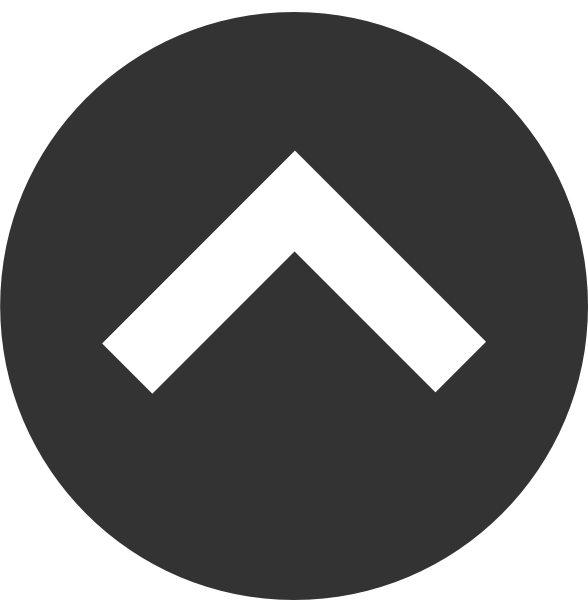
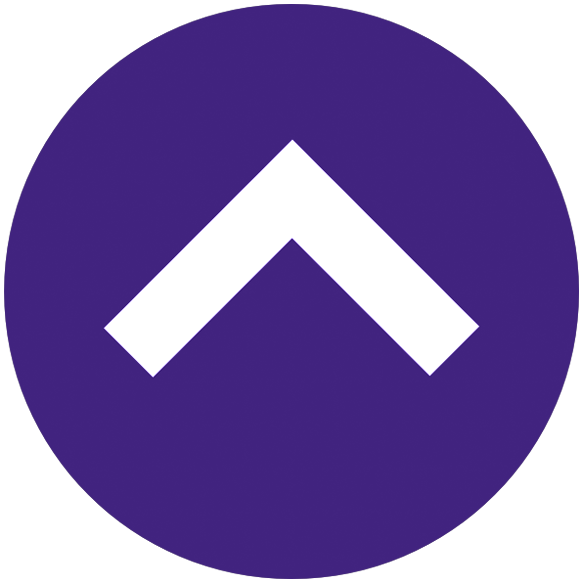
images refreshed
Changed size of arrows (40 instead 50), color and opacity.
Changed crop of some images in scrimia and added missing cop_1.

diff --git a/scrimia.html b/scrimia.html
@@ -76,7 +76,7 @@ function MM_swapImage() { //v3.0
 <div class="arrow_wrapper_right">  
   <div class="arrow_right">
     <a href="editoria.html">
-      <img src="materiale/up_arrow.png" alt="arrow_RIGHT" height="50" width="50">
+      <img src="materiale/up_arrow.png" alt="arrow_RIGHT" height="40" width="40">
     </a>  
   </div>
 </div>
@@ -86,7 +86,7 @@ function MM_swapImage() { //v3.0
           	<div align="center"><img src="materiale/tesi_mockup_48_49.jpg"></div>
           	  <div style="margin-top: 30px; margin-bottom: 30px; padding-left:6%"><mah>Scrimia Antiqua</mah></div>
           		<div class="chiWrapper">
-    			<div class="colright" style="margin-right:2%; margin-bottom:5%"><img src="../materiale/tesi_cop1.jpg"><img src="materiale/tesi_mockup_36_37.jpg"><img src="materiale/IMG_2334.jpg"></div>
+    			<div class="colright" style="margin-right:2%; margin-bottom:5%"><img src="materiale/tesi_cop1.jpg"><img src="materiale/tesi_mockup_36_37.jpg"><img src="materiale/IMG_2334.jpg"></div>
 	 			 <div class="coleft">
 	 			   <h1>Progettazione editoriale di un atlante sulla storia della scherma</h1>
 	 			   <p>&nbsp;</p>

diff --git a/spot.html b/spot.html
@@ -75,7 +75,7 @@ function MM_swapImage() { //v3.0
 <div class="arrow_wrapper_left">  
   <div class="arrow_left">    
     <a href="editoria.html">
-        <img src="materiale/up_arrow.png" alt="arrow_RIGHT" height="50" width="50">
+        <img src="materiale/up_arrow.png" alt="arrow_RIGHT" height="40" width="40">
     </a>
   </div>
 </div>
@@ -83,7 +83,7 @@ function MM_swapImage() { //v3.0
 <div class="arrow_wrapper_right">  
   <div class="arrow_right">
     <a href="art_javascript.html">
-      <img src="materiale/up_arrow.png" alt="arrow_RIGHT" height="50" width="50">
+      <img src="materiale/up_arrow.png" alt="arrow_RIGHT" height="40" width="40">
     </a>  
   </div>
 </div>

diff --git a/editoria.html b/editoria.html
@@ -75,7 +75,7 @@ function MM_swapImage() { //v3.0
 <div class="arrow_wrapper_left">  
   <div class="arrow_left">    
     <a href="scrimia.html">
-        <img src="materiale/up_arrow.png" alt="arrow_RIGHT" height="50" width="50">
+        <img src="materiale/up_arrow.png" alt="arrow_RIGHT" height="40" width="40">
     </a>
   </div>
 </div>
@@ -83,7 +83,7 @@ function MM_swapImage() { //v3.0
 <div class="arrow_wrapper_right">  
   <div class="arrow_right">
     <a href="spot.html">
-      <img src="materiale/up_arrow.png" alt="arrow_RIGHT" height="50" width="50">
+      <img src="materiale/up_arrow.png" alt="arrow_RIGHT" height="40" width="40">
     </a>  
   </div>
 </div>

diff --git a/art_javascript.html b/art_javascript.html
@@ -76,7 +76,7 @@ function MM_swapImage() { //v3.0
 <div class="arrow_wrapper_left">  
   <div class="arrow_left">    
     <a href="spot.html">
-        <img src="materiale/up_arrow.png" alt="arrow_RIGHT" height="50" width="50">
+        <img src="materiale/up_arrow.png" alt="arrow_RIGHT" height="40" width="40">
     </a>
   </div>
 </div>

diff --git a/css/longpage_new.css b/css/longpage_new.css
@@ -137,6 +137,7 @@ a:link {
     left: 1%;
     position: fixed;
     z-index: 1;
+	opacity: 0.7;
 }
 
 .arrow_wrapper_right{
@@ -144,6 +145,7 @@ a:link {
     right: 1%;
     position: fixed;
     z-index: 1;
+	opacity: 0.7;
 }
 
 .arrow_left {
